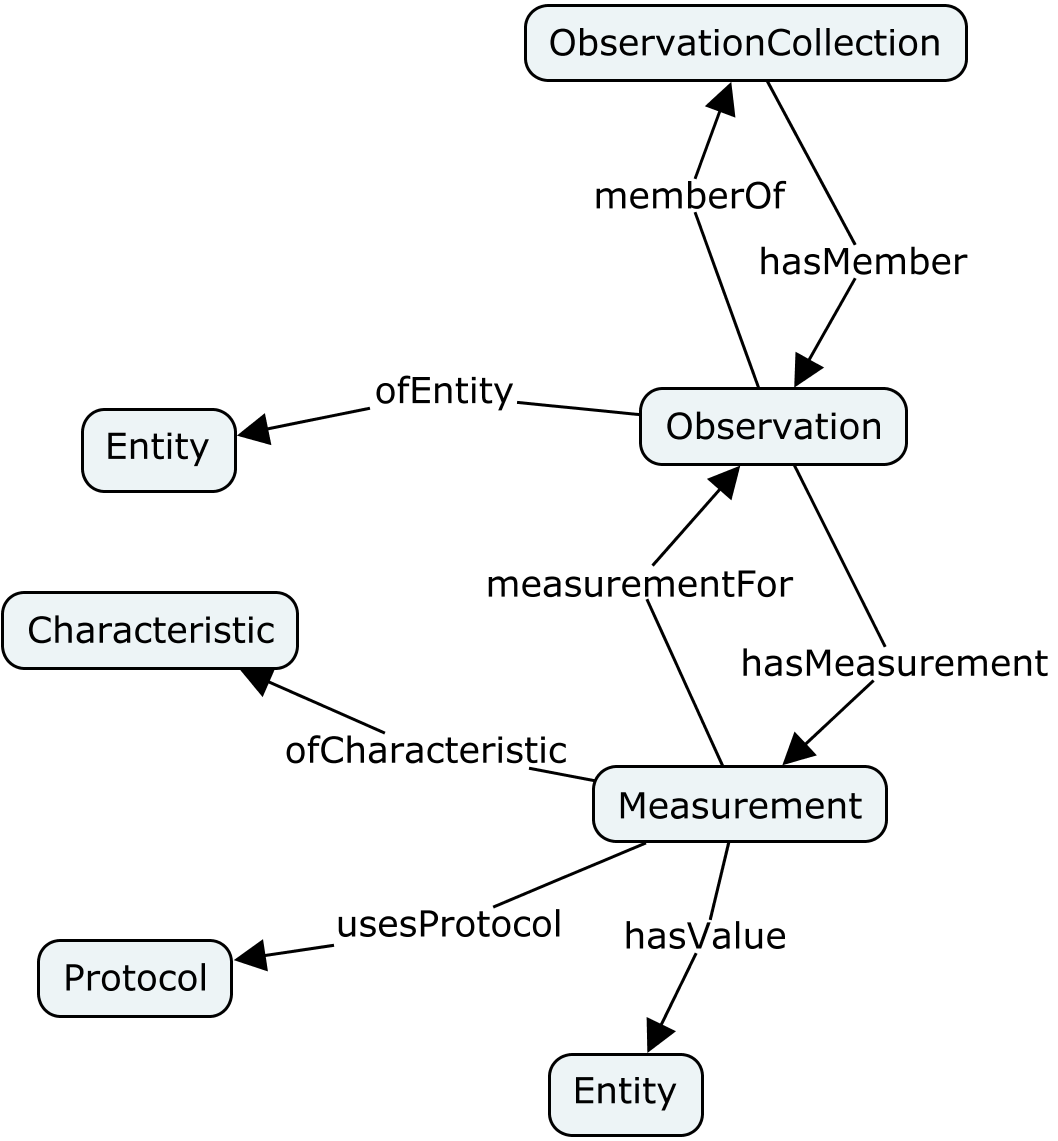
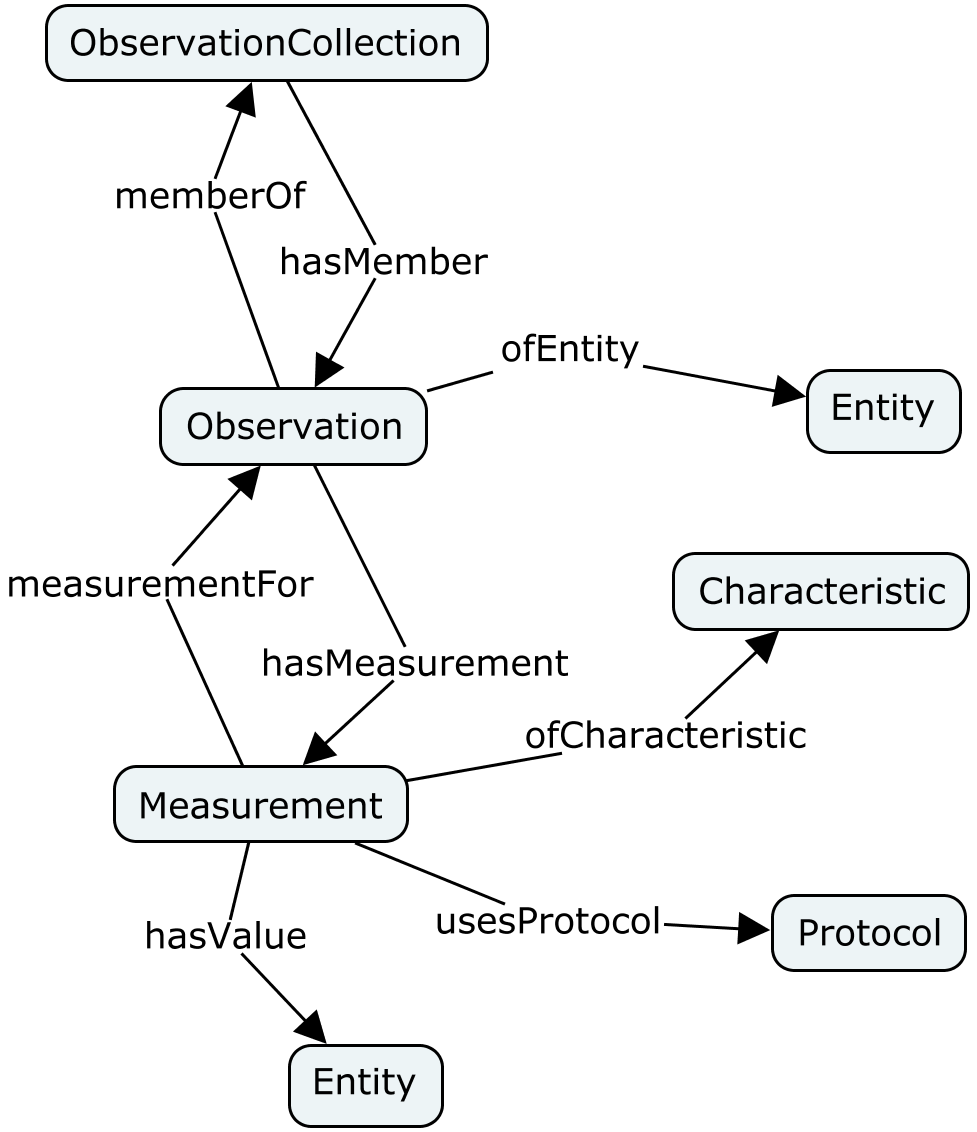
Re-insert SOSA-OBOE alignment Accidentally dropped in commit-reverse tangled up in an OWL-Time branch

diff --git a/ssn/index.html b/ssn/index.html
@@ -4863,6 +4863,140 @@ rdfs:subPropertyOf <http:  www.ontologydesignpatterns.org=""  ont=""  dul=""  du
       </section>
     </section>
 
+<section id="OBOE_Alignment" class="non-normative">
+<h2>Alignment to OBOE</h2>
+<p>This section introduces the alignment of SOSA to <a href="https://github.com/NCEAS/oboe/">OBOE</a>.</p>
+
+<p>OBOE: The Extensible Observation Ontology, is used within the biodiversity community for semantic representation of observation data. The ontology is composed of multiple modules. The core observation elements are in the module OBOE-core. </p>
+
+<section id="OBOE_Alignment_ns" class="non-normative">
+<h3>Namespaces</h3>
+
+<p>The following namespace prefixes are used in the alignment to SOSA.</p>
+
+<table>
+<tr>
+<th> Prefix </th>
+<th> Namespace
+</th></tr>
+<tr>
+<td> sosa: </td>
+<td> <a href="http://www.w3.org/ns/sosa/">http://www.w3.org/ns/sosa/</a>
+</td></tr>
+<tr>
+<td> oboe-core: </td>
+<td> <a href="http://ecoinformatics.org/oboe/oboe.1.0/oboe-core.owl#">http://ecoinformatics.org/oboe/oboe.1.0/oboe-core.owl#</a>
+</td></tr>
+</table>
+
+</section>
+
+<section id="OBOE_Alignment_class" class="non-normative">
+<h3>Class alignments</h3>
+
+<p>An oboe-core:Observation is composed of a collection of oboe-core:Measurements with the same feature-of-interest. Each oboe-core:Measurement concerns a distinct observed-property ("characteristic") and uses a distinct procedure ("protocol"). We therefore choose to align sosa:Observation with oboe-core:Measurement.</p>
+
+      <figure>
+        <img alt="OBOE core classes" src="images/OBOE-core.png" height="400px"/>
+        <img alt="SOSA Observation" src="images/SOSA-obs-core.png" height="300px"/>
+      <figcaption>Core classes from the OBOE alongside the SOSA observation model</figcaption></figure>
+
+<p>The primary classes from [OBOE] are aligned with SOSA classes as follows:</p>
+
+<table>
+<tr>
+<td> oboe-core:Measurement </td>
+<td> subclass of </td>
+<td> sosa:Observation
+</td></tr>
+<tr>
+<td> oboe-core:Characteristic </td>
+<td> equivalent class </td>
+<td> sosa:ObservableProperty
+</td></tr>
+<tr>
+<td> oboe-core:Protocol </td>
+<td> equivalent class </td>
+<td> sosa:Procedure
+</td></tr></table>
+
+<p>The class oboe-core:Entity appears in OBOE as the range of the oboe-core:ofEntity and oboe-core:hasValue properties, so we interpret it as a general superclass.</p>
+
+<table>
+<tr>
+<td> sosa:FeatureOfInterest </td>
+<td> subclass of </td>
+<td> oboe-core:Entity
+</td></tr>
+<tr>
+<td> sosa:Result </td>
+<td> subclass of </td>
+<td> oboe-core:Entity
+</td></tr></table>
+
+</section>
+
+<section id="OBOE_Alignment_property" class="normative">
+<h3>Property alignments</h3>
+
+<p>The following properties from [OBOE] may be direct aligned with SOSA properties:
+</p>
+
+<table>
+<tr>
+<td> oboe-core:ofCharacteristic </td>
+<td> equivalent property </td>
+<td> sosa:observedProperty
+</td></tr>
+<tr>
+<td> oboe-core:hasValue </td>
+<td> equivalent property </td>
+<td> sosa:hasResult
+</td></tr>
+<tr>
+<td> oboe-core:usesProtocol </td>
+<td> equivalent property </td>
+<td> sosa:usedProcedure
+</td></tr>
+<tr>
+<td> oboe-core:usesMethod </td>
+<td> equivalent property </td>
+<td> sosa:usedProcedure
+</td></tr></table>
+
+<p>oboe-core:hasValue, oboe-core:usesProtocol and oboe-core:usesMethod are sub-properties of the corresponding SOSA properties which apply to actuation and sampling as well as observation.</p>
+
+<p>The feature-of-interest is linked to the oboe-core:Observation that contains a oboe-core:Measurement, rather than to the oboe-core:Measurement directly, so a property-chain axiom is required to express the alignment.</p>
+
+<table>
+<tr>
+<td> sosa:hasFeatureOfInterest </td>
+<td> property-chain axiom </td>
+<td> [oboe-core:measurementFor, oboe-core:ofEntity]
+</td></tr></table>
+
+<p>The properties oboe-core:hasMeasurement and its inverse oboe-core:measurementFor link an oboe-core:Observation to its member oboe-core:Measurements. These could be modeled as sub-properties related to rdfs:member and its inverse as follows:</p>
+
+<table>
+<tr>
+<td> oboe-core:hasMeasurement </td>
+<td> sub-property of </td>
+<td> rdfs:member
+</td></tr>
+<tr>
+<td> oboe-core:measurementFor </td>
+<td> sub-property of </td>
+<td> [ owl:inverseOf rdfs:member ]
+</td></tr></table>
+
+<p>An RDF file containing a <a href="https://raw.githubusercontent.com/w3c/sdw/simon-sosa-om-oboe/ssn/rdf/sosa-oboe-mapping.ttl">graph corresponding to this alignment is available</a>.
+</p>
+
+</section>
+
+</section>
+
+
 <section id="Sample relationships" class="informative">
 <h2>Sample relationships</h2>
 
